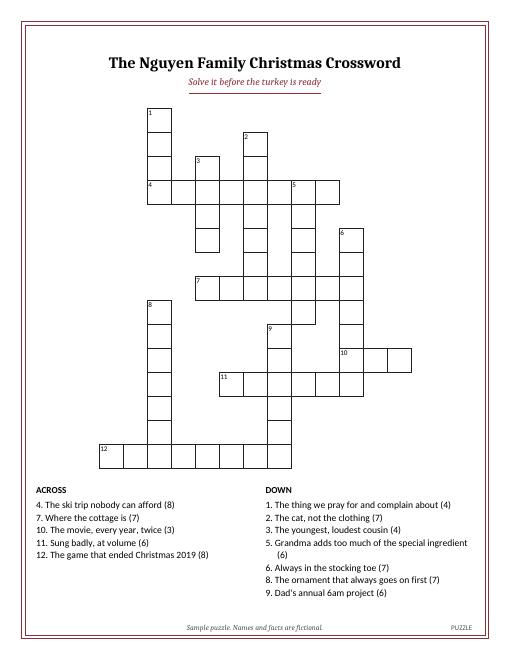
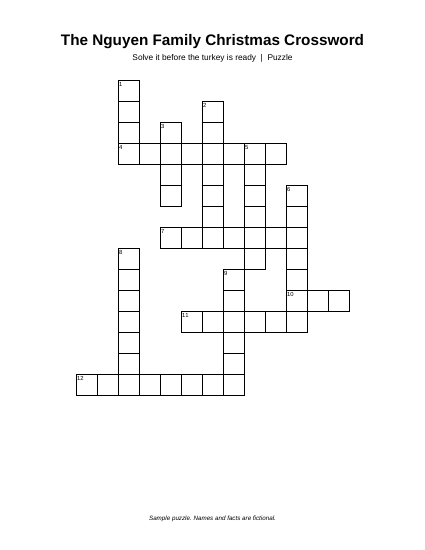
Grid and clues on one page, accent colours per occasion, refreshed sample renders and docs images
Claude-Session: https://claude.ai/code/session_01HuSiCzc8b4eBPAs1BNf5uA

Changed region(s): [[0.0306, 0.0309, 0.9788, 0.9891]]

diff --git a/clues.py b/clues.py
@@ -1,4 +1,4 @@
-"""Turn a buyer's memories into crossword entries with a local open-weight model.
+"""Turn a buyer's memories into crossword entries with a local open-weight model (Code Red line C).
 
 The buyer rarely writes "WORD - clue" pairs; they write a paragraph about the person. This script
 asks a local model (Gemma via Ollama by default, any OpenAI-compatible endpoint works) to pull out
@@ -19,7 +19,6 @@ import os
 import re
 import sys
 import time
-import urllib.error
 import urllib.request
 
 ENDPOINT = os.environ.get("CLUE_ENDPOINT", "http://localhost:11434/v1/chat/completions")
@@ -106,47 +105,13 @@ def validate(pairs, n=14, source=None):
     return out, rejected
 
 
-_STOP = set(
-    "THE AND BUT FOR WITH THAT THIS THEY THEM THEIR THEN THAN WHEN WHERE WHILE WHICH WHOSE WHAT WHO HAS HAVE HAD "
-    "WAS WERE ARE BEEN BOTH EACH EVERY FIRST ALSO ONLY JUST VERY FROM INTO OVER AFTER BEFORE ABOUT ONCE SOME "
-    "MANY MUCH MOST SUCH THESE THOSE ALWAYS NEVER STILL EVEN YEAR YEARS DAY DAYS TIME".split()
-)
-
-
-def mock_pairs(memories, n=14, per_sentence=2):
-    """Deterministic stand-in for the model. Picks names and distinctive words from the text and
-    writes fill-in-the-blank clues from the sentence each one appears in, so a demo run reads like
-    a real puzzle: 'Sam proposed in ____'. Proper nouns first, then longer plain words."""
-    sentences = [s.strip() for s in re.split(r"(?<=[.!?])\s+|\n+", memories) if s.strip()]
-    cands = []  # (priority, order, word, sentence index)
-    seen = set()
-    for si, sent in enumerate(sentences):
-        for m in re.finditer(r"[A-Za-z][A-Za-z'-]*", sent):
-            tok = m.group(0)
-            w = clean(tok)
-            if w in seen or w in _STOP or not 3 <= len(w) <= 15:
-                continue
-            capital = tok[0].isupper()
-            if not capital and len(w) < 5:
-                continue
-            seen.add(w)
-            cands.append((0 if capital else 1, len(cands), tok, si))
-    cands.sort(key=lambda c: (c[0], c[1]))
-    used, pairs = {}, []
-    for _, _, tok, si in cands:
-        if used.get(si, 0) >= per_sentence:
-            continue
-        used[si] = used.get(si, 0) + 1
-        blank = re.sub(r"\b" + re.escape(tok) + r"\b", "____", sentences[si], flags=re.I).rstrip(".!? ")
-        words = blank.split()
-        if len(words) > 12:  # keep a window around the blank
-            k = next(i for i, x in enumerate(words) if "____" in x)
-            lo = max(0, min(k - 5, len(words) - 12))
-            blank = " ".join(words[lo:lo + 12])
-        pairs.append((tok, blank))
-        if len(pairs) == n:
-            break
-    return pairs
+def mock_pairs(memories, n=14):
+    """Deterministic stand-in for the model: capitalized words from the text with a template clue."""
+    words = []
+    for tok in re.findall(r"\b[A-Z][a-z]{2,14}\b", memories):
+        if tok not in words:
+            words.append(tok)
+    return [(w, f"From your story: {w[0]}...") for w in words[:n]]
 
 
 def build_order(memories, title, occasion="gift", n=14, mock=False, subtitle=None, footer=None, seed=0):
@@ -180,18 +145,13 @@ def main(argv=None):
     ap.add_argument("--n", type=int, default=14); ap.add_argument("--mock", action="store_true")
     ap.add_argument("--subtitle"); ap.add_argument("--footer"); ap.add_argument("--seed", type=int, default=0)
     a = ap.parse_args(argv)
-    with open(a.memories, encoding="utf-8") as f:
+    with open(a.memories) as f:
         memories = f.read()
     t0 = time.time()
-    try:
-        order = build_order(memories, a.title, a.occasion, a.n, a.mock, a.subtitle, a.footer, a.seed)
-    except urllib.error.URLError as e:
-        sys.exit(f"Could not reach the model at {ENDPOINT} ({e.reason}).\n"
-                 "Start Ollama and run `ollama pull gemma3:4b`, set CLUE_ENDPOINT/CLUE_MODEL, "
-                 "or add --mock to try the pipeline without a model.")
+    order = build_order(memories, a.title, a.occasion, a.n, a.mock, a.subtitle, a.footer, a.seed)
     print(f"model: {MODEL} at {ENDPOINT}; {time.time() - t0:.1f} s including warm-up")
     rejected = order.pop("_rejected")
-    with open(a.out, "w", encoding="utf-8") as f:
+    with open(a.out, "w") as f:
         json.dump(order, f, indent=1)
     print(f"{len(order['entries'])} entries -> {a.out}; rejected {len(rejected)}: {rejected}")
     for e in order["entries"]:

diff --git a/test_clues.py b/test_clues.py
@@ -63,11 +63,3 @@ def test_validate_rejects_answers_not_in_memories():
     assert [e["word"] for e in entries] == ["Lisbon", "Scrabble", "Newyork"]
     assert {r[0] for r in rejected} == {"PRAMA", "YEARS", "LOVE", "Sunday"}  # LOVE != loves, Sunday != Sundays
     assert all(r[1] == "not in memories" for r in rejected)
-
-
-def test_mock_clues_are_fill_in_the_blank():
-    pairs = clues.mock_pairs("Sam proposed in Lisbon. They adopted Biscuit the dog in October.")
-    d = dict(pairs)
-    assert d["Lisbon"] == "Sam proposed in ____"
-    assert all(w.upper() not in clues.clean(c) for w, c in pairs)
-    assert "They" not in d and "THEY" not in {clues.clean(w) for w in d}

diff --git a/crossword.py b/crossword.py
@@ -1,4 +1,4 @@
-"""Personalized crossword and word-search generator.
+"""Personalized crossword and word-search generator (Code Red line C).
 
 Usage:
   python3 crossword.py order.json out.pdf          # US Letter
@@ -313,6 +313,6 @@ def render(order, out, pagesize=None):
     return grid, leftover, ws_placed
 
 if __name__ == "__main__":
-    order = json.load(open(sys.argv[1], encoding="utf-8"))
+    order = json.load(open(sys.argv[1]))
     grid, leftover, _ = render(order, sys.argv[2], sys.argv[3] if len(sys.argv) > 3 else None)
     print(f"placed {len(grid.placed)} words; left out: {[w for w, _ in leftover]}")
